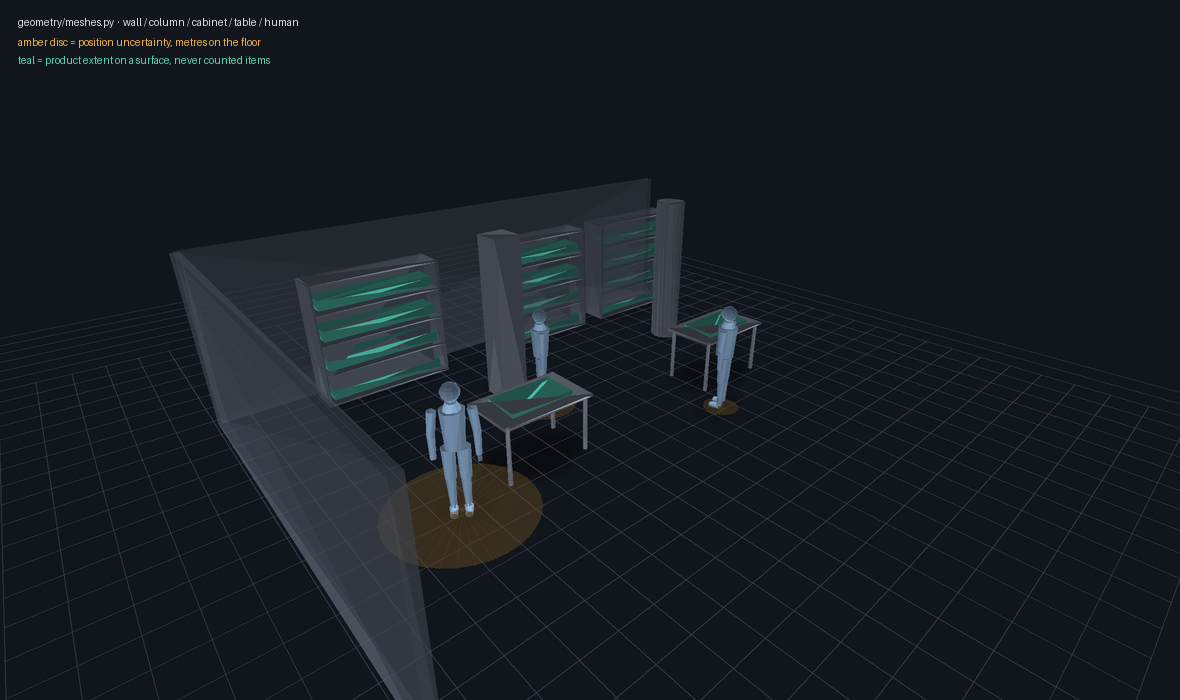
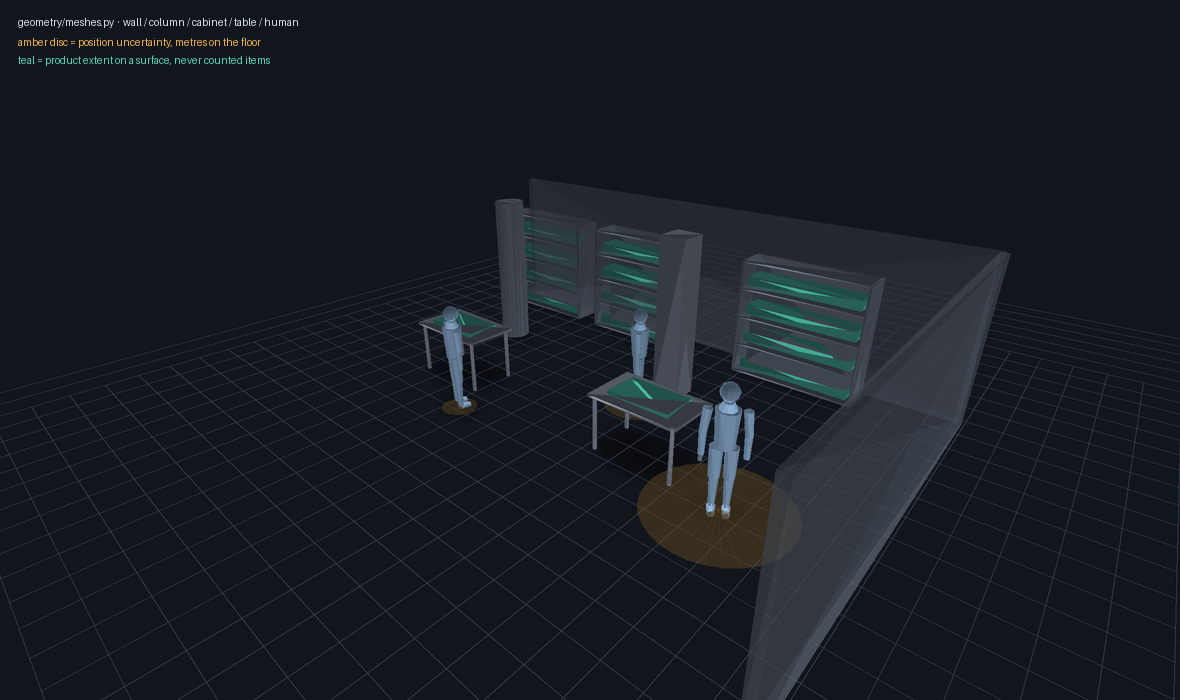
refactor: let the preview be a scene, not a second renderer
The script keeps what only it has -- a hand-authored shop, typed-in coordinates, the
palette and the caption -- and drops the 90 lines of camera, lighting, triangle sorting
and shadow blurring it had been holding privately. All of that is `geometry/shading.py`
now, and `bev3d.py` draws through the same functions, which is the point: the same
`human()` came out as two different objects depending on which file you ran.

The render is mirrored against the image committed in f0558ef. The script built its basis
as `right = fwd x up`, which puts world +x on the left under this package's axes, and a
hand-authored scene had no ground truth to catch that with. The panel had it the other way
round and a test pinning it. The new hand is the correct one.

What this file still is: a picture of what the mesh library and the shading rig do with a
scene that has fixtures in it, which the site clips do not currently give the panel. The
limit on reading anything into it is that nothing here is a model output.

diff --git a/scripts/mesh_preview.py b/scripts/mesh_preview.py
@@ -7,30 +7,34 @@ Writes `assets/mesh_shop_preview.png`. The point is not the picture -- it is tha
 picture is reproducible, because an asset in `assets/` with no generator is the thing this
 repository keeps finding and cannot re-derive.
 
-**What makes the look, and none of it is the meshes.** The geometry here is a few hundred
-triangles of tubes and prisms; the same meshes rendered with flat per-face shading read as
-a faceted low-poly toy. Four things do the work, in order of how much:
+**This scene is hand-authored and nothing here is a model output.** The coordinates below
+are typed in. It exists to show what the mesh library and the shading rig do with a scene
+that has fixtures in it, which is not something the site clips currently give the panel --
+`bev3d.py` renders the same meshes through the same camera and the same lights, and what
+it can draw is limited by what the perception actually returns, not by this file.
 
-1. **Smooth normals**, from `geometry.meshes.smooth_normals`. Each face is shaded by the
-   average of its vertices' normals. Adjacent faces then differ by a little instead of a
-   lot, and a 20-sided tube reads as a cylinder rather than a prism. It lives in the
-   package rather than here because `geometry/bev3d.py` needs the same answer -- this
-   script had the only copy of it while every real render still drew cuboids.
-2. **Three lights, not one.** A key light, a dim fill from the opposite side so nothing
-   goes to pure black, and a rim term that brightens faces turned away from the camera --
-   which is what separates a dark object from a dark background without an outline.
-3. **Depth fade.** Colours lerp toward the background with distance. `bev3d.py` makes the
-   same argument for its far edge: a scene that ends on a hard line reads as a room that
-   stops there.
-4. **Contact shadow.** A soft ellipse under everything that touches the floor. Without it
-   objects hover, and hovering is exactly the artefact a viewer would blame on the
-   geometry rather than on the shading.
+**The camera and the lights are no longer here.** They were, and that was the bug: this
+script grew a three-light rig, a depth fade and grouped contact shadows while
+`geometry/bev3d.py` -- the renderer anybody actually looks at -- still lit its meshes with
+two terms and no shadow, so the same `human()` came out as two different objects depending
+on which file you ran. Both now go through `geometry/shading.py`. The move also fixed a
+mirror this file had and could not have noticed: it built its camera basis as
+``right = fwd x up``, which puts world +x on the *left* under this package's axes, and a
+hand-authored scene has no ground truth to catch that with. So this render is mirrored
+against the one committed in `f0558ef`, and the new one is the correct hand.
 
-**A deliberate limit: this is a painter's algorithm, not a z-buffer.** Faces are sorted by
-centroid depth, so two long surfaces that interpenetrate can sort wrongly -- visible where
-a shelf passes behind a column. Fixing it means per-pixel depth, which means a real
-renderer. Anything that has to be *correct* rather than illustrative should go to one:
-`rerun-sdk`, Open3D or a glTF export via `to_obj`, all of which read this module's output.
+What still makes the look, in order of how much, and none of it is the meshes -- the
+geometry here is a few hundred triangles of tubes and prisms:
+
+1. **Smooth normals**, `geometry.meshes.smooth_normals`. Each face is shaded by the average
+   of its vertices' normals, so adjacent faces differ by a little instead of a lot and a
+   20-sided tube reads as a cylinder rather than a prism.
+2. **Three lights, not one** -- key, fill, and a rim term that separates a dark object from
+   a dark background without an outline. `geometry/shading.py` argues each one.
+3. **Depth fade**, colours lerping toward the background with distance, so the scene does
+   not end on a hard line.
+4. **Contact shadows**, blurred as a group. Without them objects hover, and hovering is
+   the artefact a viewer blames on the geometry rather than on the shading.
 """
 
 from __future__ import annotations
@@ -39,7 +43,7 @@ import sys
 from pathlib import Path
 
 import numpy as np
-from PIL import Image, ImageDraw, ImageFilter
+from PIL import Image, ImageDraw
 
 HERE = Path(__file__).resolve().parent
 for candidate in (HERE.parent / "src", HERE / "src"):
@@ -54,18 +58,17 @@ from syncai_hydranet.geometry.meshes import (  # noqa: E402
     ground_disc,
     human,
     place,
-    smooth_normals,
     table,
     wall,
 )
+from syncai_hydranet.geometry.shading import (  # noqa: E402
+    View,
+    contact_shadows,
+    draw_scene,
+)
 
 W, H, SS = 1180, 700, 2  # SS: supersample, resolved down at the end. Same trick as bev3d.
-BG = np.array([17, 21, 28], float)
-
-KEY = np.array([0.42, 0.80, -0.44])
-FILL = np.array([-0.55, 0.35, 0.30])
-KEY /= np.linalg.norm(KEY)
-FILL /= np.linalg.norm(FILL)
+BG = (17, 21, 28)
 
 # Desaturated and close together on purpose: in a car's map almost everything is one
 # neutral and only what the driver must react to carries colour. Here that is people.
@@ -80,48 +83,9 @@ PALETTE = {
 }
 
 
-class View:
-    def __init__(self, eye, target, focal):
-        self.eye = np.asarray(eye, float)
-        fwd = np.asarray(target, float) - self.eye
-        self.fwd = fwd / np.linalg.norm(fwd)
-        right = np.cross(self.fwd, [0.0, 1.0, 0.0])
-        self.right = right / np.linalg.norm(right)
-        self.up = np.cross(self.right, self.fwd)
-        self.focal = focal
-
-    def project(self, v):
-        d = v - self.eye
-        cam = np.stack([d @ self.right, d @ self.up, d @ self.fwd], -1)
-        z = np.maximum(cam[:, 2], 1e-6)
-        xy = np.stack(
-            [W * SS / 2 + self.focal * SS * cam[:, 0] / z,
-             H * SS / 2 - self.focal * SS * cam[:, 1] / z], -1
-        )  # fmt: skip
-        return xy, cam[:, 2]
-
-
-def shade(normals, base, depth, view):
-    """Key + fill + rim, then fade into the background with distance."""
-    key = np.maximum(normals @ KEY, 0.0)
-    fill = np.maximum(normals @ FILL, 0.0)
-    rim = np.power(np.clip(1.0 - np.abs(normals @ view.fwd), 0.0, 1.0), 2.5)
-    lit = 0.38 + 0.62 * key + 0.22 * fill + 0.26 * rim
-    colour = np.asarray(base, float)[None, :] * lit[:, None]
-    fog = np.clip((depth - 5.0) / 22.0, 0.0, 0.42)[:, None]
-    return np.clip(colour * (1 - fog) + BG[None, :] * fog, 0, 255)
-
-
-def main() -> None:
-    # An elevated three-quarter view, which is the framing a car's map uses and is not a
-    # taste call: from low down the fixtures occlude each other and the floor -- the one
-    # surface every measurement here is expressed on -- is edge-on and unreadable.
-    view = View([6.6, 5.0, -4.6], [0.35, 0.7, 2.5], 620.0)
-    img = Image.new("RGB", (W * SS, H * SS), tuple(int(c) for c in BG))
-    shadows = Image.new("RGBA", img.size, (0, 0, 0, 0))
-    fdraw = ImageDraw.Draw(shadows)
-
-    items = []  # (mesh, colour_key, alpha, casts_shadow)
+def scene() -> list[tuple]:
+    """The shop, as ``(mesh, colour_key, alpha, casts_shadow)``."""
+    items = []
     # Walls translucent, and the reason is not composition. Only their *footprint* is
     # measured -- `bev3d.py`: "a wall is drawn 2.4 m tall because walls are about that;
     # the camera never said so". A solid slab asserts that height and occludes the
@@ -144,59 +108,44 @@ def main() -> None:
         items.append((place(table(1.45, 0.9, 0.9), Placement(tx, 1.5)), "table", 255, True))
         top = extrude([[-0.5, -0.28], [0.5, -0.28], [0.5, 0.28], [-0.5, 0.28]], 0.06)
         items.append(((top[0] + [tx, 0.9, 1.5], top[1]), "product", 255, False))
-    people = (
+    for x, z, hm, sigma, heading in (
         (-0.8, 0.6, 1.72, 0.28, 20),
         (1.3, 2.6, 1.63, 0.55, -120),
         (3.7, 1.1, 1.78, 1.0, 150),
-    )
-    for x, z, hm, sigma, heading in people:
+    ):
         items.append((place(ground_disc(sigma), Placement(x, z)), "disc", 120, False))
         items.append((place(human(hm), Placement(x, z, heading_rad=np.radians(heading))),
                       "person", 255, True))  # fmt: skip
+    return items
+
+
+def main() -> None:
+    # An elevated three-quarter view, which is the framing a car's map uses and is not a
+    # taste call: from low down the fixtures occlude each other and the floor -- the one
+    # surface every measurement here is expressed on -- is edge-on and unreadable.
+    view = View([6.6, 5.0, -4.6], [0.35, 0.7, 2.5], 620.0 * SS, W * SS / 2, H * SS / 2)
+    img = Image.new("RGB", (W * SS, H * SS), BG)
+    items = scene()
 
     # Contact shadows go on the floor layer, under everything, and are blurred as a group
     # so one blur pass serves them all.
-    for mesh, _, _, casts in items:
-        if not casts:
-            continue
-        v = mesh[0]
-        cx, cz = (v[:, 0].min() + v[:, 0].max()) / 2, (v[:, 2].min() + v[:, 2].max()) / 2
-        rx, rz = (np.ptp(v[:, 0]) / 2 + 0.10), (np.ptp(v[:, 2]) / 2 + 0.10)
-        ring = np.array(
-            [
-                [cx + rx * np.cos(t), 0.0, cz + rz * np.sin(t)]
-                for t in np.linspace(0, 6.2832, 24)
-            ]
-        )
-        p, z = view.project(ring)
-        if (z > 0).all():
-            fdraw.polygon([tuple(q) for q in p], fill=(0, 0, 0, 105))
-    shadows = shadows.filter(ImageFilter.GaussianBlur(5 * SS))
-    img = Image.alpha_composite(img.convert("RGBA"), shadows).convert("RGB")
+    img = Image.alpha_composite(
+        img.convert("RGBA"),
+        contact_shadows(
+            img.size, view, [m for m, _, _, casts in items if casts], blur_px=5 * SS
+        ),
+    ).convert("RGB")
 
     # Grid after the shadows, so the blur does not erase it. It is the only cue for scale
     # on an empty floor, and it was invisible when the two shared a layer.
     draw = ImageDraw.Draw(img, "RGBA")
     for i in range(-14, 25):
         for a, b in (([i * 0.5, 0, -5], [i * 0.5, 0, 9]), ([-6, 0, i * 0.5], [8, 0, i * 0.5])):
-            p, z = view.project(np.array([a, b], float))
-            if (z > 0).all():
-                draw.line([tuple(p[0]), tuple(p[1])], fill=(58, 68, 84, 190), width=SS)
+            uv, depth = view.project_points(np.array([a, b], float))
+            if (depth > 0).all():
+                draw.line([tuple(uv[0]), tuple(uv[1])], fill=(58, 68, 84, 190), width=SS)
 
-    tris = []
-    for mesh, key, alpha, _ in items:
-        verts, faces = mesh
-        p, z = view.project(verts)
-        depth = z[faces].mean(axis=1)
-        visible = depth > 0
-        colours = shade(smooth_normals(verts, faces), PALETTE[key], depth, view)
-        for face, d, colour in zip(
-            faces[visible], depth[visible], colours[visible], strict=True
-        ):
-            tris.append((d, [tuple(p[i]) for i in face], (*(int(c) for c in colour), alpha)))
-
-    for _, pts, colour in sorted(tris, key=lambda t: -t[0]):
-        draw.polygon(pts, fill=colour)
+    draw_scene(draw, view, [(m, PALETTE[k], a) for m, k, a, _ in items], bg=BG)
 
     img = img.resize((W, H), Image.LANCZOS)
     text = ImageDraw.Draw(img)
